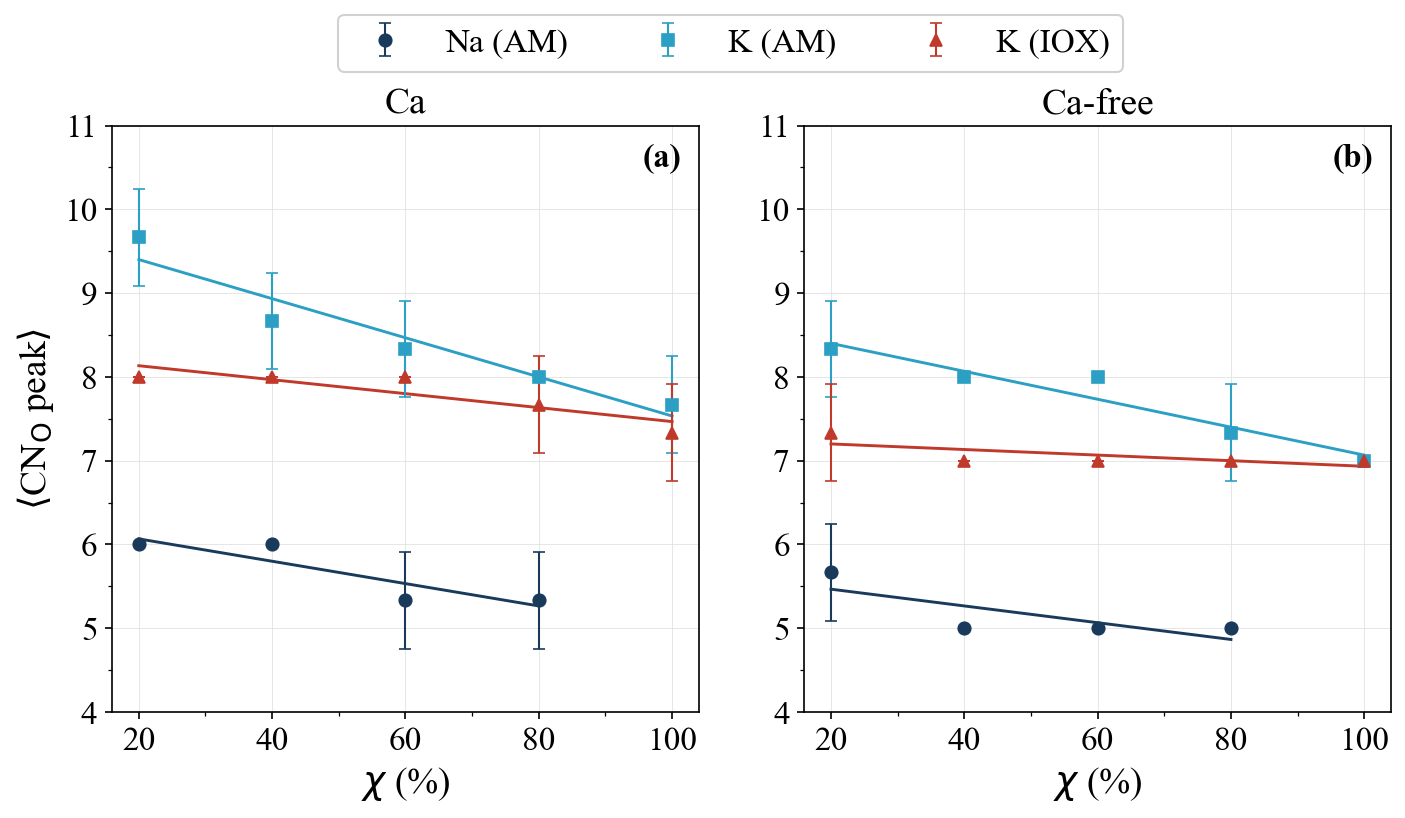
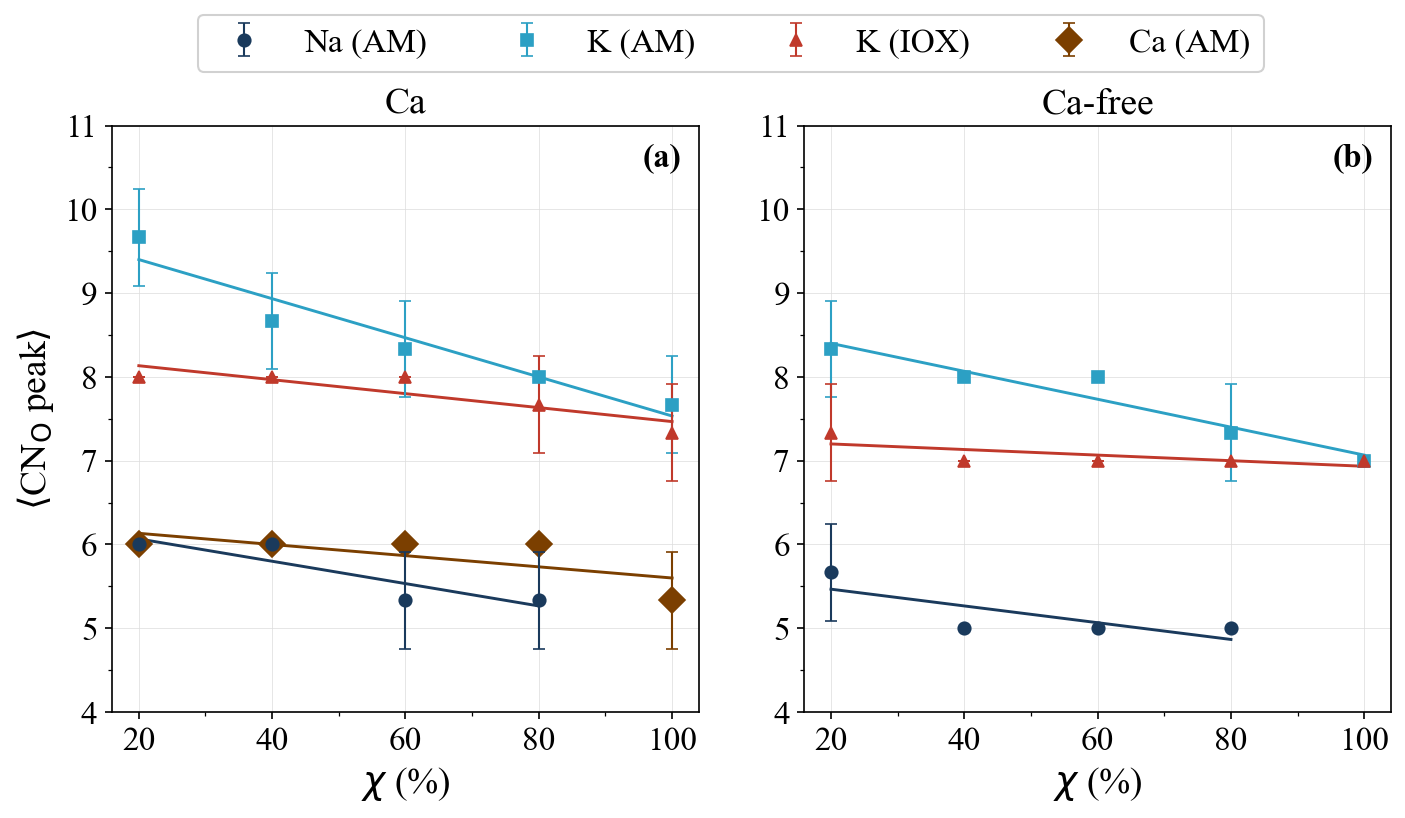
fig_cn_av_peaks_vs_chi: add the Ca (AM) series to the Ca glass panel
CN_O peak of the Ca cations (cutoff 3.20 A, same as the BO/NBO figure; AM compositions x = xka),
averaged over the 3 replicas with between-replica standard deviation. Drawn larger and behind
the Na markers, since Na and Ca share the same peak at several chi.

diff --git a/COMPARISON/fig_cn_av_peaks_vs_chi.py b/COMPARISON/fig_cn_av_peaks_vs_chi.py
@@ -6,7 +6,8 @@ Para cada chi, serie y replica (r=1,2,3) se calcula la moda de la distribucion d
 cationes (O dentro del radio de corte). Punto = media de las 3 modas; barra de error =
 desviacion estandar muestral (n-1) entre replicas. Ajuste lineal sobre las medias.
 
-Radios de corte: Na-O 3.21 A, K-O 3.77 A (AM), K-O 3.49 A (IOX; promedio Na/K).
+Radios de corte: Na-O 3.21 A, K-O 3.77 A (AM), K-O 3.49 A (IOX; promedio Na/K), Ca-O 3.20 A
+(mismos que fig_bo_nbo_av_vs_chi). Ca solo en el vidrio con Ca (composiciones AM x = xka).
 El Na solo se muestra en chi = 20-80 (en chi = 100 no hay Na; XX_CONFIG usa x=0 de relleno).
 2 paneles: Ca | Ca-free.
 """
@@ -30,9 +31,9 @@ CAO_IEX1_DIR  = BASE / "75SiO2_15-xNa2O_xK2O_10CaO" / "STAGE3_IEX_PROTO1" / "dat
 NOCA_AM_DIR   = BASE / "75SiO2_25-xNa2O_xK2O"        / "STAGE1_MELTQUENCH" / "data" / "asmelted_723K"
 NOCA_IEX1_DIR = BASE / "75SiO2_25-xNa2O_xK2O"        / "STAGE3_IEX_PROTO1" / "data" / "iox1_723K"
 
-RCUT_NA, RCUT_K = 3.21, 3.77
+RCUT_NA, RCUT_K, RCUT_CA = 3.21, 3.77, 3.20
 RCUT_IEX = (RCUT_NA + RCUT_K) / 2.0
-TYPE_O, TYPE_NA, TYPE_K = 2, 4, 5
+TYPE_O, TYPE_CA, TYPE_NA, TYPE_K = 2, 3, 4, 5
 REPLICAS = (1, 2, 3)
 
 XX_CONFIG = {
@@ -92,8 +93,8 @@ def series_stats(dirpath, pat, x, center_type, rcut):
 AM_PAT = "AsMelted_723K_x{x}_r{r}_PMMCS_rc8p0.data"
 IEX_PAT = "IOX1_723K_xt{x}_r{r}_PMMCS_rc8p0.data"
 
-mean = {s: {k: np.full(len(CHI), np.nan) for k in ("na", "ka", "ki")} for s in ("cao", "noca")}
-sd = {s: {k: np.full(len(CHI), np.nan) for k in ("na", "ka", "ki")} for s in ("cao", "noca")}
+mean = {s: {k: np.full(len(CHI), np.nan) for k in ("na", "ka", "ki", "ca")} for s in ("cao", "noca")}
+sd = {s: {k: np.full(len(CHI), np.nan) for k in ("na", "ka", "ki", "ca")} for s in ("cao", "noca")}
 
 for ix, (XX, (xna_c, xka_c, xt_c, xna_n, xka_n, xt_n)) in enumerate(sorted(XX_CONFIG.items())):
     print(f"XX={XX}%...")
@@ -101,6 +102,7 @@ for ix, (XX, (xna_c, xka_c, xt_c, xna_n, xka_n, xt_n)) in enumerate(sorted(XX_CO
         ("cao", "na"):   (CAO_AM_DIR,   AM_PAT,  xna_c, TYPE_NA, RCUT_NA),
         ("cao", "ka"):   (CAO_AM_DIR,   AM_PAT,  xka_c, TYPE_K,  RCUT_K),
         ("cao", "ki"):   (CAO_IEX1_DIR, IEX_PAT, xt_c,  TYPE_K,  RCUT_IEX),
+        ("cao", "ca"):   (CAO_AM_DIR,   AM_PAT,  xka_c, TYPE_CA, RCUT_CA),
         ("noca", "na"):  (NOCA_AM_DIR,   AM_PAT,  xna_n, TYPE_NA, RCUT_NA),
         ("noca", "ka"):  (NOCA_AM_DIR,   AM_PAT,  xka_n, TYPE_K,  RCUT_K),
         ("noca", "ki"):  (NOCA_IEX1_DIR, IEX_PAT, xt_n,  TYPE_K,  RCUT_IEX),
@@ -114,16 +116,20 @@ SERIES = [
     ("na", "#1a3a5c", "o", relabel("Na (As-Melted)")),
     ("ka", "#2ca0c4", "s", relabel("K (As-Melted)")),
     ("ki", "#c0392b", "^", relabel("K (Ion-Exchanged)")),
+    ("ca", "#7b3f00", "D", relabel("Ca (As-Melted)")),
 ]
 
 fig, axes = make_fig(1, 2)
 for col, (letter, (sys_, title)) in enumerate(zip(("(a)", "(b)"), (("cao", "10CaO"), ("noca", "Ca-free")))):
     ax = axes[col]
     for key, color, marker, label in SERIES:
+        if sys_ == "noca" and key == "ca":      # Ca-free: no hay Ca
+            continue
         y, e = mean[sys_][key], sd[sys_][key]
         ok = ~np.isnan(y)
-        ax.errorbar(CHI[ok], y[ok], yerr=e[ok], color=color, marker=marker, ls="none", ms=6, mew=0.8,
-                    capsize=3, elinewidth=1.0, label=label, zorder=3)
+        big = key == "ca"      # rombo mas grande y detras: Na y Ca coinciden en varios chi
+        ax.errorbar(CHI[ok], y[ok], yerr=e[ok], color=color, marker=marker, ls="none", ms=9 if big else 6,
+                    mew=0.8, capsize=3, elinewidth=1.0, label=label, zorder=2.6 if big else 3)
         m, b = np.polyfit(CHI[ok], y[ok], 1)
         xf = np.linspace(CHI[ok].min(), CHI[ok].max(), 200)
         ax.plot(xf, m * xf + b, color=color, lw=1.4, label="_nolegend_", zorder=2)
@@ -143,7 +149,7 @@ for col, (letter, (sys_, title)) in enumerate(zip(("(a)", "(b)"), (("cao", "10Ca
         sp.set_linewidth(0.8)
 
 handles, labels = axes[0].get_legend_handles_labels()
-fig.legend(handles, labels, loc="upper center", bbox_to_anchor=(0.5, 0.99), ncol=3, fontsize=FS_TEXT,
+fig.legend(handles, labels, loc="upper center", bbox_to_anchor=(0.5, 0.99), ncol=4, fontsize=FS_TEXT,
            frameon=True, framealpha=0.9, edgecolor="#cccccc")
 fig.subplots_adjust(top=0.85, wspace=0.18)
 
@@ -153,5 +159,7 @@ fig.savefig(out.with_suffix(".png"), dpi=150, bbox_inches="tight")
 print(f"Guardado: {out.name}")
 
 for sys_ in ("cao", "noca"):
-    for key in ("na", "ka", "ki"):
+    for key in ("na", "ka", "ki", "ca"):
+        if sys_ == "noca" and key == "ca":
+            continue
         print(sys_, key, " ".join(f"{m:.2f}±{s:.2f}" for m, s in zip(mean[sys_][key], sd[sys_][key])))
